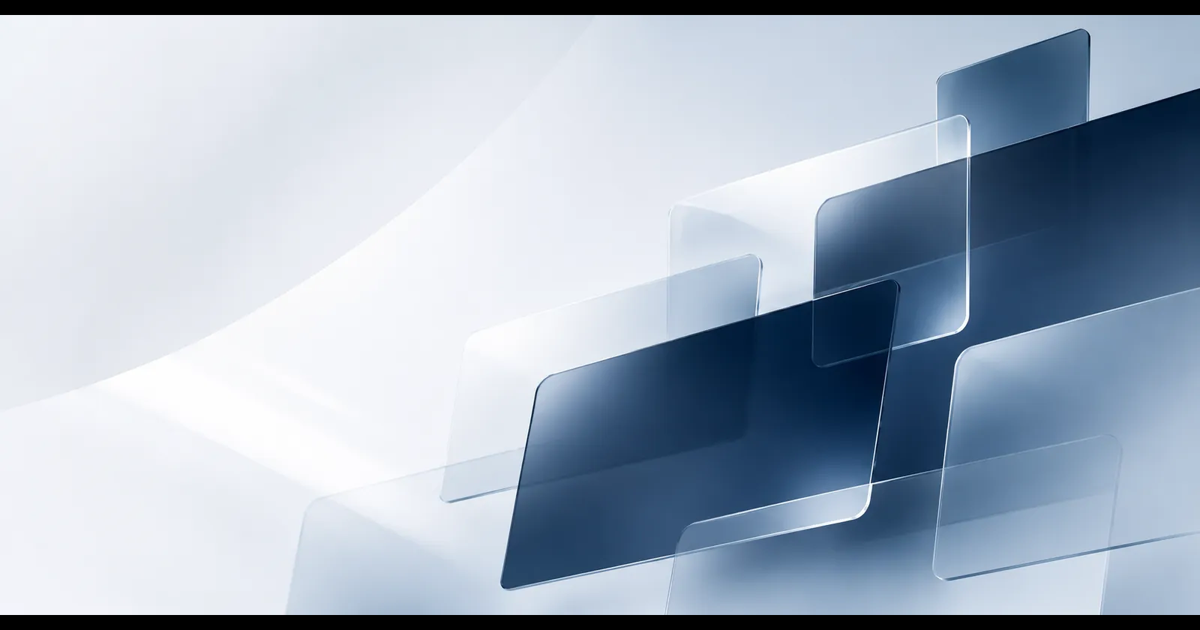
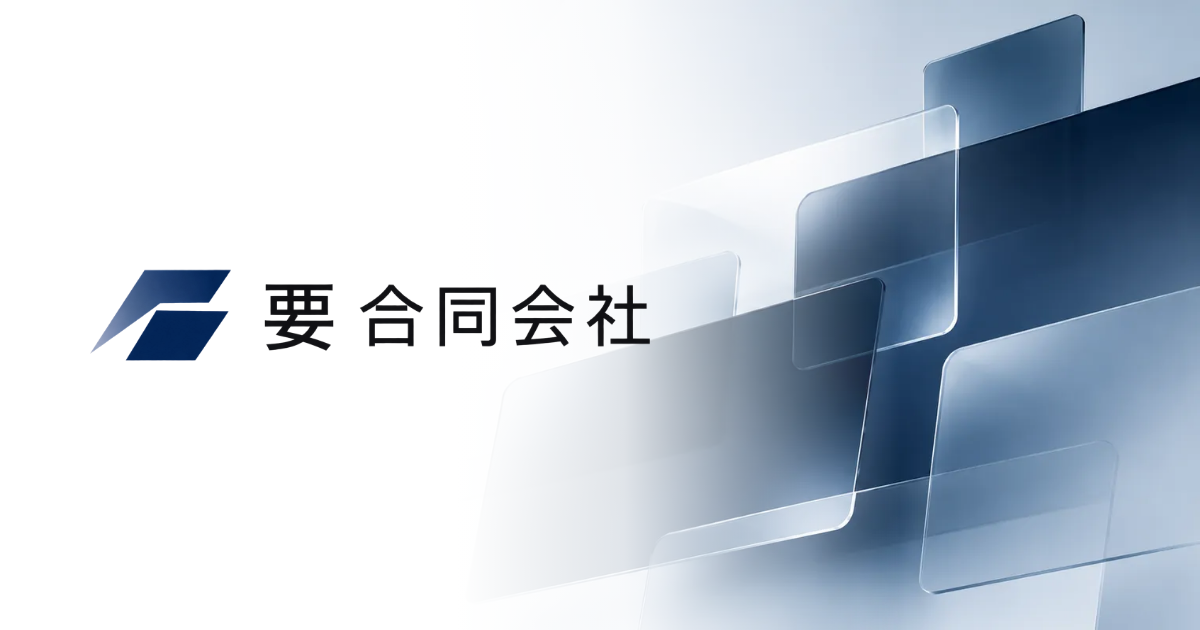
ロゴを入れ、社名を要合同会社にする
ヘッダー・フッターのロゴを画像（白地用・白抜き）に替え、ファビコン・アイコン・OG 画像もロゴで作り直す。

Claude-Session: https://claude.ai/code/session_018YFajGvffBfSgES5pZyahe

diff --git a/src/constants/index.ts b/src/constants/index.ts
@@ -2,8 +2,8 @@
 
 // サイト全体の設定
 export const SITE = {
-  // TODO(仕様): 会社の正式名称が決まったら差し替える（ロゴも未着。docs/todo.md）
-  title: "会社名（仮）",
+  // 会社名（ロゴの表記に合わせた。2026-11-18）
+  title: "要合同会社",
   // サイト名の別の書き方（構造化データの alternateName。英字表記などが決まったら入れる）
   alternateNames: [] as string[],
   // 構造化データの Organization に入れるロゴ

diff --git a/docs/design.md b/docs/design.md
@@ -25,7 +25,7 @@
 | `highlight` | = `primary` | 必須バッジなど（白文字） |
 | `link` | = `primary` | リンク文字（下線） |
 
-濃紺は画像パーツの紺に合わせた。`brand-700` の値は CSS の変数を使えない `public/favicon.svg` にも書いている。
+濃紺は画像パーツの紺に合わせた。`public/favicon.svg` はロゴのマークの色（ロゴ画像に合わせた紺）を直接書いている。
 
 ## 文字
 
@@ -77,8 +77,9 @@
   - 営業代行（`part-2`）のように、枠付きで浮いても違和感のない画像はそのまま。
   - 背景色を変えたら、もとの画像から作り直す（明るい部分を白に寄せ、背景色を掛ける）。
 - 装飾の画像は `alt=""`。
-- ロゴは未着。いまは `Logo.astro` が社名の文字を出している。画像が届いたら `public/images/logo.png`（白地用）・`logo-white.png`（濃紺の地用）を置き、`Logo.astro` を `<img>` に替える。OG 画像にもロゴを重ねて作り直す。
-- アイコン（`favicon.svg`・`apple-touch-icon.png`・`images/icon-*.png`）はいまは濃紺の四角の仮のもの。
+- ロゴ（2026-11-18 受領。2案から横長・ゴシックの案に決定）は `Logo.astro` が `<img>` で出す。白地用 `public/images/logo.png`、濃紺の地（フッター）用の白抜き `logo-white.png`。どちらも高さ 120px（表示はスマホ 28px・PC 36px）の透過 PNG。受け取った元の画像と切り抜き版は制作用の共有フォルダ（`site-build/logo/`）に置いてある。
+- アイコン: `favicon.svg` はロゴのマーク（2つの平行四辺形）を SVG に描き直したもの。`apple-touch-icon.png`・`images/icon-*.png` はそれを白地に置いて書き出した PNG。
+- OG 画像（`public/images/og.png`、1200×630）: `part-8` を右に敷き、左を白のグラデーションにしてロゴを置いたもの。
 
 ## 動き
 

diff --git a/docs/todo.md b/docs/todo.md
@@ -2,10 +2,9 @@
 
 ## 仕様で決めること（決まったらコードの `TODO(仕様)` を差し替える）
 
-- 会社の正式名称（`SITE.title`）・代表者・所在地・設立・連絡先（`company.astro`）、本番のドメイン（`astro.config.mjs` の `site`）
+- 代表者・所在地・設立・連絡先（`company.astro`）、本番のドメイン（`astro.config.mjs` の `site`）
 - SERVICE 01 の支援領域の確定、取扱商品の正式名称・販売権限・契約形態、FX ツールの法令確認（リスク表示は載せない方針。2026-11-18 決定）（`service.astro`）
 - 特定商取引法の表示が要るか（制作指示書 08）
-- ロゴ（`Logo.astro`）と、ロゴ入りの OG 画像・アイコン（`public/images/`）
 - プライバシーポリシーの文面（制定日は公開日）
 - お問い合わせ: 通知メールの宛先、返信の運用、自動返信の有無（[contact.md](contact.md)）
 
